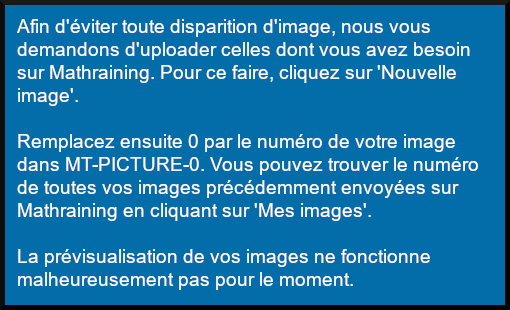
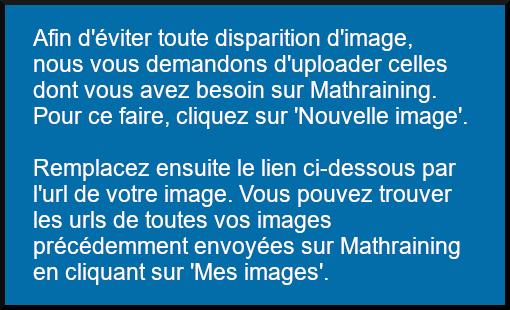
Go from PaperClip to ActiveStorage (8) - Change idea for pictures and create automatic script

Changed region(s): [[0.0294, 0.0581, 0.9412, 0.929]]

diff --git a/app/assets/javascripts/preview.js b/app/assets/javascripts/preview.js
@@ -59,16 +59,6 @@ var Preview = {
       return;
     }
     var text = this.input.value.replace(/<hr>[ \r]*\n/g,'<hr>').replace(/\][ \r]*\n/g,'\] ').replace(/\$\$[ \r]*\n/g,'$$$ ').replace(/<\/h2>[ \r]*\n/g,'</h2>').replace(/<\/h3>[ \r]*\n/g,'</h3>').replace(/<\/h4>[ \r]*\n/g,'</h4>').replace(/<\/ol>[ \r]*\n/g, '</ol>').replace(/\n[ \r]*<\/ol>/g, '</ol>').replace(/<\/ul>[ \r]*\n/g, '</ul>').replace(/\n[ \r]*<\/ul>/g, '</ul>').replace(/\n(\040)*<li>/g, '<li>').replace(/<evidence>[ \r]*\n/g, '<evidence>').replace(/<\/evidence>[ \r]*\n/g, '</evidence>').replace(/<evidence>/g, '<div class="evidence">').replace(/<\/evidence>/g, '</div>').replace(/<result>[ \r]*\n/g, '<result>').replace(/<\/result>[ \r]*\n/g, '</result>').replace(/<proof>[ \r]*\n/g, '<proof>').replace(/<\/proof>[ \r]*\n/g, '</proof>').replace(/<remark>[ \r]*\n/g, '<remark>').replace(/<\/remark>[ \r]*\n/g, '</remark>').replace(/<statement>[ \r]*\n/g, '<statement>').replace(/<\/indice>[ \r]*\n/g, '</indice>').replace(/\n/g, '<br/>').replace(/<result>(.*?)<statement>(.*?)<\/result>/g, "<div class='result-title'>$1</div><div class='result-content'>$2</div>").replace(/<proof>(.*?)<statement>(.*?)<\/proof>/g, "<div class='proof-title'>$1</div><div class='proof-content'>$2</div>").replace(/<remark>(.*?)<statement>(.*?)<\/remark>/g, "<div class='remark-title'>$1</div><div class='remark-content'>$2</div>").replace(/<indice>(.*?)<\/indice>/g, "<div class='clue-bis'><div><a href='#' onclick='return false;' class='btn btn-default btn-grey'>Indice</a></div><div id='indice0' class='clue-hide' style='height:auto;!important;'><div class='clue-content'>$1</div></div></div>")
-
-    while(true)
-    {
-      pos = text.indexOf("MT-PICTURE-");
-      if (pos == -1) { break; }
-      start_id = pos+11;
-      end_id = start_id;
-      while(end_id < text.length && text[end_id] >= 0 && text[end_id] <= 9) { end_id = end_id+1 }
-      text = text.substr(0, pos) + "/system/DefaultPicture.png" + text.substr(end_id, text.length - end_id)
-    }
     
     if (text === this.oldtext) return;
     this.buffer.innerHTML = this.oldtext = text;

diff --git a/script/update_pictures_url.rb b/script/update_pictures_url.rb
@@ -1,0 +1,123 @@
+#!bin/rails runner
+
+$result = []
+
+def separate_text(text)
+  a = text.index("/system/pictures/")
+  if a.nil?
+    return []
+  end
+  delimitor = text[a-1]
+  if delimitor != '\'' and delimitor != '"'
+    $result.append("Error 0 with " + text)
+    return []
+  end
+  b = a
+  while (b < text.size and text[b] != delimitor) do
+    b = b + 1
+  end
+  if b == text.size
+    $result.append("Error 1 with " + text)
+    return []
+  end
+  return [text[0..(a-1)], text[a..(b-1)], text[b..-1]]
+end
+
+def detect_picture_id(old_url)
+  if old_url.index("/system/pictures/") != 0
+    $result.append("Error 2 with " + old_url)
+    return -1
+  end
+  a = "/system/pictures/".size
+  b = a
+  while (b < old_url.size && old_url[b].match?(/[[:digit:]]/)) do
+    b = b + 1
+  end
+  if b == a
+    $result.append("Error 3 with " + old_url) 
+    return -1
+  end
+  return old_url[a..(b-1)].to_i
+end
+
+def get_new_url(picture_id)
+  p = Picture.find_by_id(picture_id)
+  if p.nil?
+    $result.append("Error 4 with " + picture_id.to_s)
+    return ""
+  end
+  
+  return Rails.application.routes.url_helpers.rails_blob_url(p.image, only_path: true)
+end
+
+def replace_one_url(text)
+  x = separate_text(text)
+  if x == []
+    return nil
+  end
+  old_url = x[1]
+  picture_id = detect_picture_id(old_url)
+  if picture_id == -1
+    return nil
+  end
+  new_url = get_new_url(picture_id)
+  if new_url.size == 0
+    return nil
+  end
+  $result.append("Replacing " + old_url + " by " + new_url)
+  return x[0] + new_url + x[2]
+end
+
+def replace_all_urls_in_text(text)
+  ret = 0
+  while true do
+    new_text = replace_one_url(text)
+    if new_text.nil?
+      break
+    else
+      ret = ret + 1
+      text = new_text
+    end
+  end
+  if ret
+    return [ret, text]
+  else
+    return [0, nil]
+  end
+end
+
+def replace_all_urls_in_object(object, att)
+  text = object.read_attribute(att)
+  res = replace_all_urls_in_text(text)
+  if res[0] == 0
+    return 0
+  else
+    object.update_attribute(att, res[1])
+    return res[0]
+  end
+end
+
+def replace_all_urls_in_model(model, att)
+  res = 0
+  model.find_each do |object|
+    res = res + replace_all_urls_in_object(object, att)
+  end
+  $result.append("Found " + res.to_s + " urls in attribute " + att + " of " + model.to_s)
+  return res
+end
+
+def replace_all_urls_on_mathraining
+  res = 0
+  res = res + replace_all_urls_in_model(Actuality, "content")
+  res = res + replace_all_urls_in_model(Theory, "content")
+  res = res + replace_all_urls_in_model(Question, "statement")
+  res = res + replace_all_urls_in_model(Question, "explanation")
+  res = res + replace_all_urls_in_model(Problem, "statement")
+  res = res + replace_all_urls_in_model(Problem, "explanation")
+  res = res + replace_all_urls_in_model(Contestproblem, "statement")
+  res = res + replace_all_urls_in_model(Section, "description")
+  res = res + replace_all_urls_in_model(Chapter, "description")
+  res = res + replace_all_urls_in_model(Contest, "description")
+  res = res + replace_all_urls_in_model(Privacypolicy, "content")
+  $result.append("Found " + res.to_s + " urls in total")
+end

diff --git a/app/helpers/application_helper.rb b/app/helpers/application_helper.rb
@@ -77,31 +77,6 @@ module ApplicationHelper
     while m2.sub!(/<remark>(.*?)<statement>(.*?)<\/remark>/mi) {"<div class='remark-title'>#{$1}</div><div class='remark-content'>#{$2}</div>"}
     end
     
-    while true
-      pos = m2.index("MT-PICTURE-")
-      if pos.nil?
-        break
-      end
-      start_id = pos+11
-      end_id = start_id
-      while end_id < m2.size and m2[end_id].match?(/[[:digit:]]/)
-        end_id = end_id+1
-      end
-      ok = false
-      if start_id < end_id && end_id < start_id + 9
-        id = m2[start_id..(end_id-1)].to_i
-        p = Picture.find_by_id(id)
-        if !p.nil?
-          url = rails_blob_url(p.image)
-          ok = true
-        end
-      end
-      if !ok
-        url = "/system/DefaultPicture.png"
-      end
-      m2 = m2[0..(pos-1)] + url + m2[end_id..-1]
-    end
-    
     return m2.gsub(/\n/, '<br/>')
   end
 

diff --git a/config/routes.rb b/config/routes.rb
@@ -229,7 +229,7 @@ Rails.application.routes.draw do
   get '/404', to: 'errors#not_found'
   get '/422', to: 'errors#unacceptable'
   get '/500', to: 'errors#internal_error'
-  #get '*unmatched_route', to: 'errors#not_found'  # ActiveStorage does not work with this line
+  get '*unmatched_route', to: 'errors#not_found', constraints: lambda { |req| req.path.exclude? 'rails/active_storage' }
 
   mount ResqueWeb::Engine => '/resque_web'
 

diff --git a/config/environments/test.rb b/config/environments/test.rb
@@ -35,8 +35,6 @@ Rails.application.configure do
 
   # Print deprecation notices to the stderr
   config.active_support.deprecation = :stderr
-  
-  config.eager_load = false
 
   # Do not eager load code on boot. This avoids loading your whole application
   # just for the purpose of running a single test. If you are using a tool that
